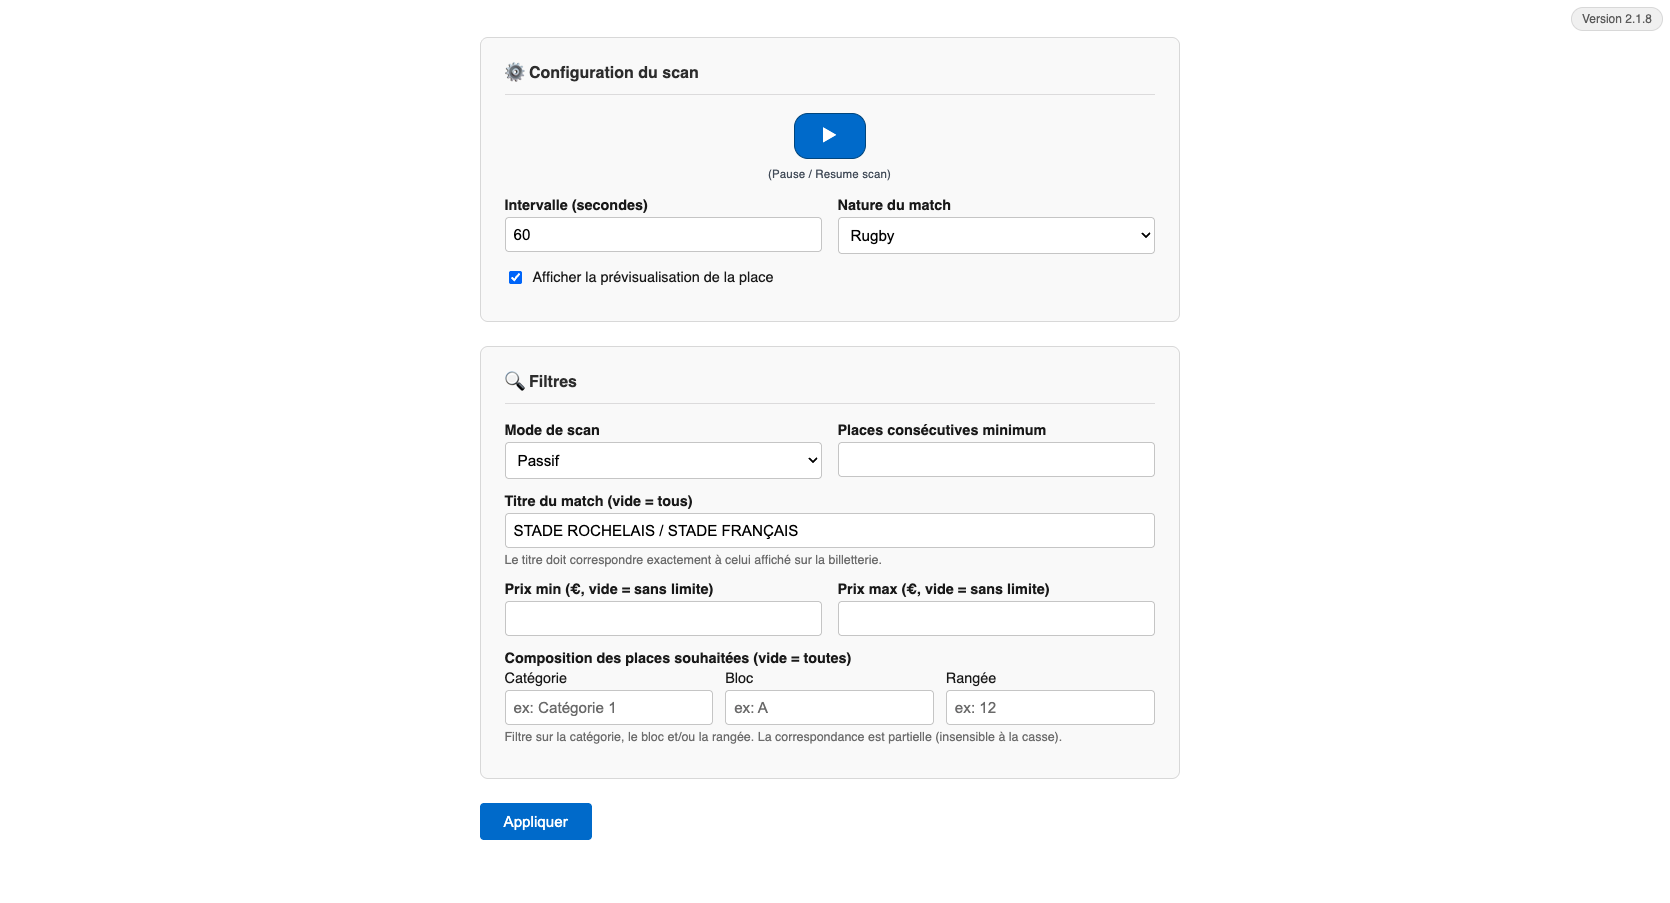
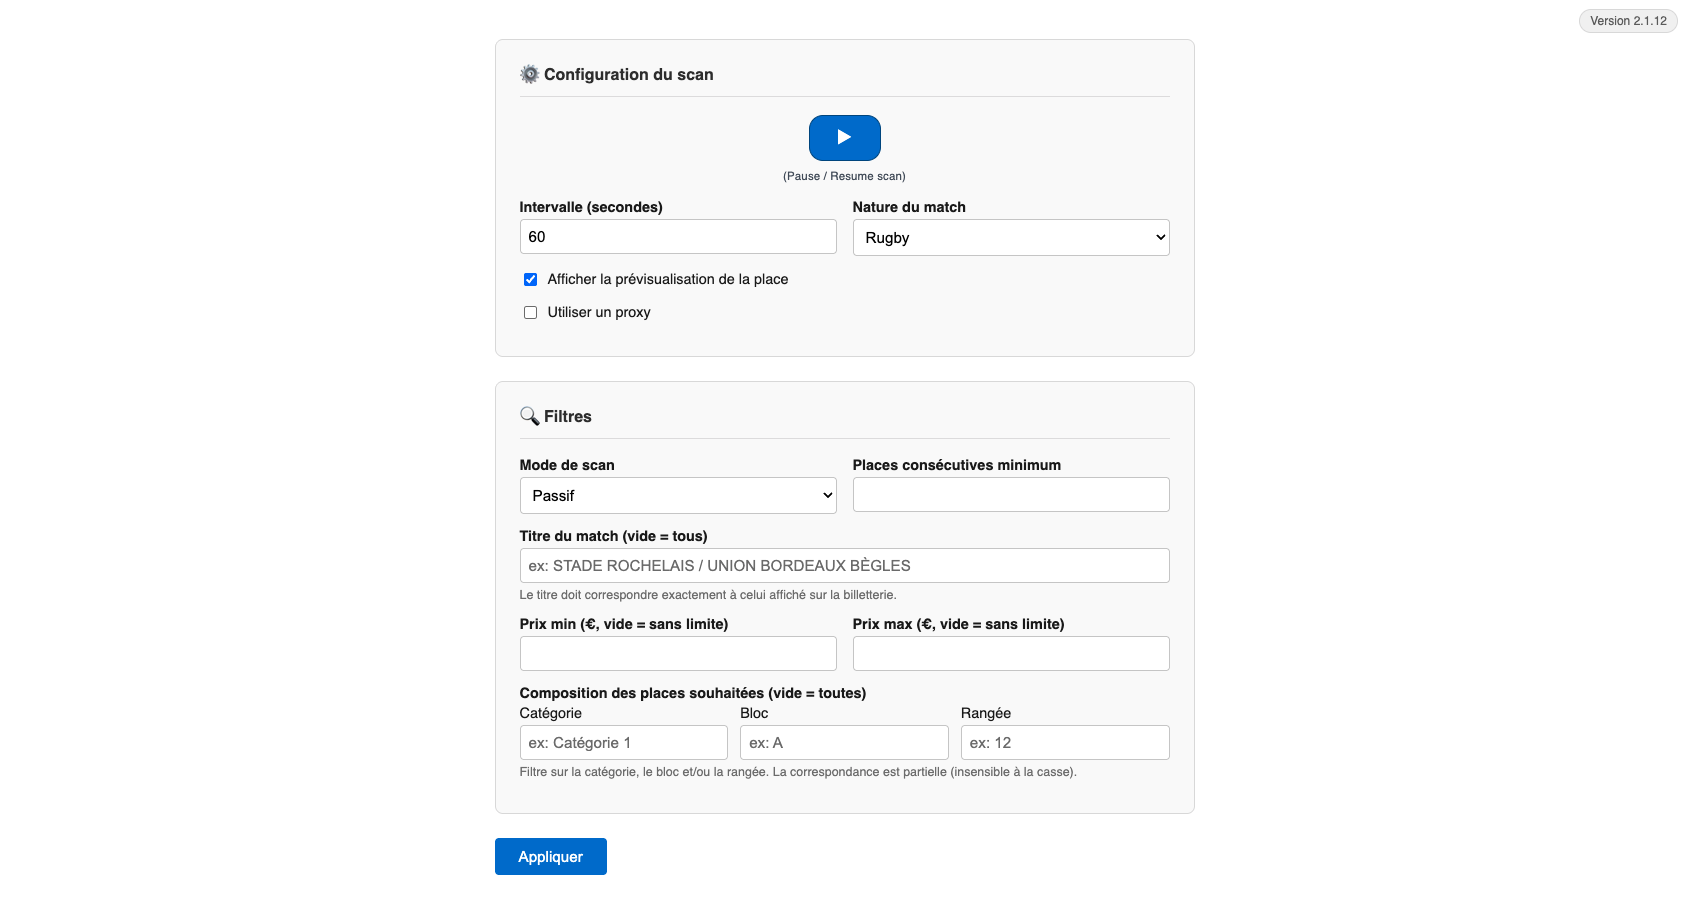
changed(README.md): doc clean and update

diff --git a/doc/DOCKER_DEPLOYMENT.md b/doc/DOCKER_DEPLOYMENT.md
@@ -63,31 +63,7 @@ Then log out and log in again (or reboot) to apply group changes.
 
 Official reference: https://docs.docker.com/engine/install/debian/
 
-### 2. (Optional) Get example file template for docker compose, environment variables and default configuration for the bot.
-
-If you want a clean checkout with only the current template files, use Git sparse-checkout:
-
-```bash
-git clone --filter=blob:none --sparse git@github.com:ficaud/telescrap-sr.git telescrap-templates
-cd telescrap-templates
-git checkout main
-
-git sparse-checkout init --no-cone
-git sparse-checkout set examples/docker
-git read-tree -mu HEAD
-
-ls -la examples/docker
-```
-
-You should get the current templates from:
-
-- `examples/docker/docker-compose.yml.example`
-- `examples/docker/.env.example`
-- `examples/docker/config_scan.json.example`
-
-Then copy them into your deployment directory:
-
-###  3. Create a docker compose file (`docker-compose.yml`) in the root of the project with the content of the template provided in the repository: `examples/docker/docker-compose.yml.example`.
+###  2. Create a docker compose file (`docker-compose.yml`) in the root of the project with the content of the template provided in the repository: `examples/docker/docker-compose.yml.example`.
 
 ```bash
 mv examples/docker/docker-compose.yml.example docker-compose.yml
@@ -159,14 +135,14 @@ networks:
     driver: bridge 
 ```
 
-###  4. Copy the environment template and edit it with your Telegram credentials:
+###  3. Copy the environment template and edit it with your Telegram credentials:
 
 ```bash
 mv examples/docker/.env.example .env
 nano .env
 ```
 
-###  5. Fill in the `TELEGRAM_BOT_TOKEN` and `TELEGRAM_CHAT_ID` fields with your actual Telegram bot token and chat ID.
+###  4. Fill in the `TELEGRAM_BOT_TOKEN` and `TELEGRAM_CHAT_ID` fields with your actual Telegram bot token and chat ID.
 
 This is where all the configuration for the different instances of the bot will be stored.
 
@@ -180,7 +156,7 @@ RUST_LOG=info
 ```
 
 
-###  6. Copy the config_scan.json template and edit it with your desired default start configuration
+###  5. Copy the config_scan.json template and edit it with your desired default start configuration
 
 This configuration will be the same for all instances, but can be updated at runtime from the admin panel.
 
@@ -237,6 +213,9 @@ docker compose build --no-cache
 ```bash
 # Start volumes and services in detached mode
 docker compose up -d
+
+# Pull the latest images
+docker compose pull
 ```
 
 ## See also 

diff --git a/doc/SERVER_INSTALLATION.md b/doc/SERVER_INSTALLATION.md
@@ -4,34 +4,7 @@
 
 1. Create a Telegram bot and get its token (see [this documentation](https://core.telegram.org/bots#6-botfather)).
 
-2. Get your Telegram chat ID and save it for later (see [this documentation](https://stackoverflow.com/questions/32423837/telegram-bot-how-to-get-a-group-chat-id)).
-
-
-## Compilation and deployment (manual)
-
-**SKIP THIS STEP IF YOU ARE USING THE RELEASE BUILDS FROM THE GITHUB RELEASES PAGE, AS THEY ARE ALREADY COMPILED FOR ARM64.**
-
-*Pre-requisite: Rust and Cargo must be installed on your machine.*
-
-Install the `cargo-zigbuild` tool and the stable Rust toolchain to enable cross-compilation:
-
-```bash
-cargo install cargo-zigbuild
-rustup install stable
-```
-
-To deploy on a Raspberry Pi 3/4, target the `aarch64-unknown-linux-gnu` architecture:
-
-```bash
-rustup target add aarch64-unknown-linux-gnu
-cargo zigbuild --release --target aarch64-unknown-linux-gnu
-```
-
-The compiled binary will be at `target/aarch64-unknown-linux-gnu/release/telescrap-sr`. Copy it to your server:
-
-```bash
-scp target/aarch64-unknown-linux-gnu/release/telescrap-sr user@your-server-ip:/home/user/telescrap/
-```
+2. Get your Telegram chat ID and save it for later.
 
 ## Set up your running server
 
@@ -41,12 +14,9 @@ To run the bot, you need a server — either a physical machine (like a Raspberr
 
 In this section, we will see how to structure your Raspberry Pi to run one or multiple instances of the bot.
 
-### 1. Docker compose
+### Docker compose
 
 The easiest way to run multiple instances of the bot is to use Docker and Docker Compose.
 
 To do so, follow the instructions in [DOCKER_DEPLOYMENT.md](./DOCKER_DEPLOYMENT.md) to set up the Docker environment and deploy the bot.
 
-### 2. Manual setup
-
-If you prefer to run the bot without Docker, you can follow these steps [MANUAL_DEPLOYMENT.md](./MANUAL_DEPLOYMENT.md) to set up the bot manually on your server.

diff --git a/doc/ADMIN_PANEL.md b/doc/ADMIN_PANEL.md
@@ -1,7 +1,7 @@
 
 ## How to access the admin panel
 
-Depending on how you have set up the project (see [SERVER_INSTALLATION.md](SERVER_INSTALLATION.md) documentation), you can access the admin panel by going to `http://localhost:3000` in your web browser.
+Depending on how you have set up the project (see [SERVER_INSTALLATION.md](SERVER_INSTALLATION.md) documentation), you can access the admin panel by going to `http://<your_server_ip>:3000` in your web browser.
 
 ## How it looks
 
@@ -13,6 +13,7 @@ Depending on how you have set up the project (see [SERVER_INSTALLATION.md](SERVE
 - **Interval**: Set the scanning interval in seconds. This determines how often the bot checks for new tickets.
 - **Nature**: Choose which type of filters to apply. This can be "Rugby" or "Basketball", depending on the matches you are interested in.
 - **Preview**: A checkbox that enables the bot to send a preview of the ticket's seat details in the Telegram notification. This is useful for quickly assessing the ticket's quality without opening the link.
+- **Proxy enabled**: A checkbox that enables the bot to use a proxy server to access the ticketing website.
 
 ### Lower part: Filters management
 

diff --git a/README.md b/README.md
@@ -46,15 +46,9 @@ You can request access by contacting the project administrator via private messa
 
 The bot includes a web interface for managing its operations, allowing you to start or stop the bot, configure filters and other settings without needing to modify the configuration file.
 
+This panel will appears once the bot is running on your local network.
+
 Read the [ADMIN_PANEL.md](doc/ADMIN_PANEL.md) documentation for more details about the features of the admin panel and how to use it.
-
-## Tools
-
-### Redb database reader
-
-To read a redb database, compile and use the `db-reader` crate included in the project.
-
-* [Read more about it](doc/DB_READER.md)
 
 ## See also
 
